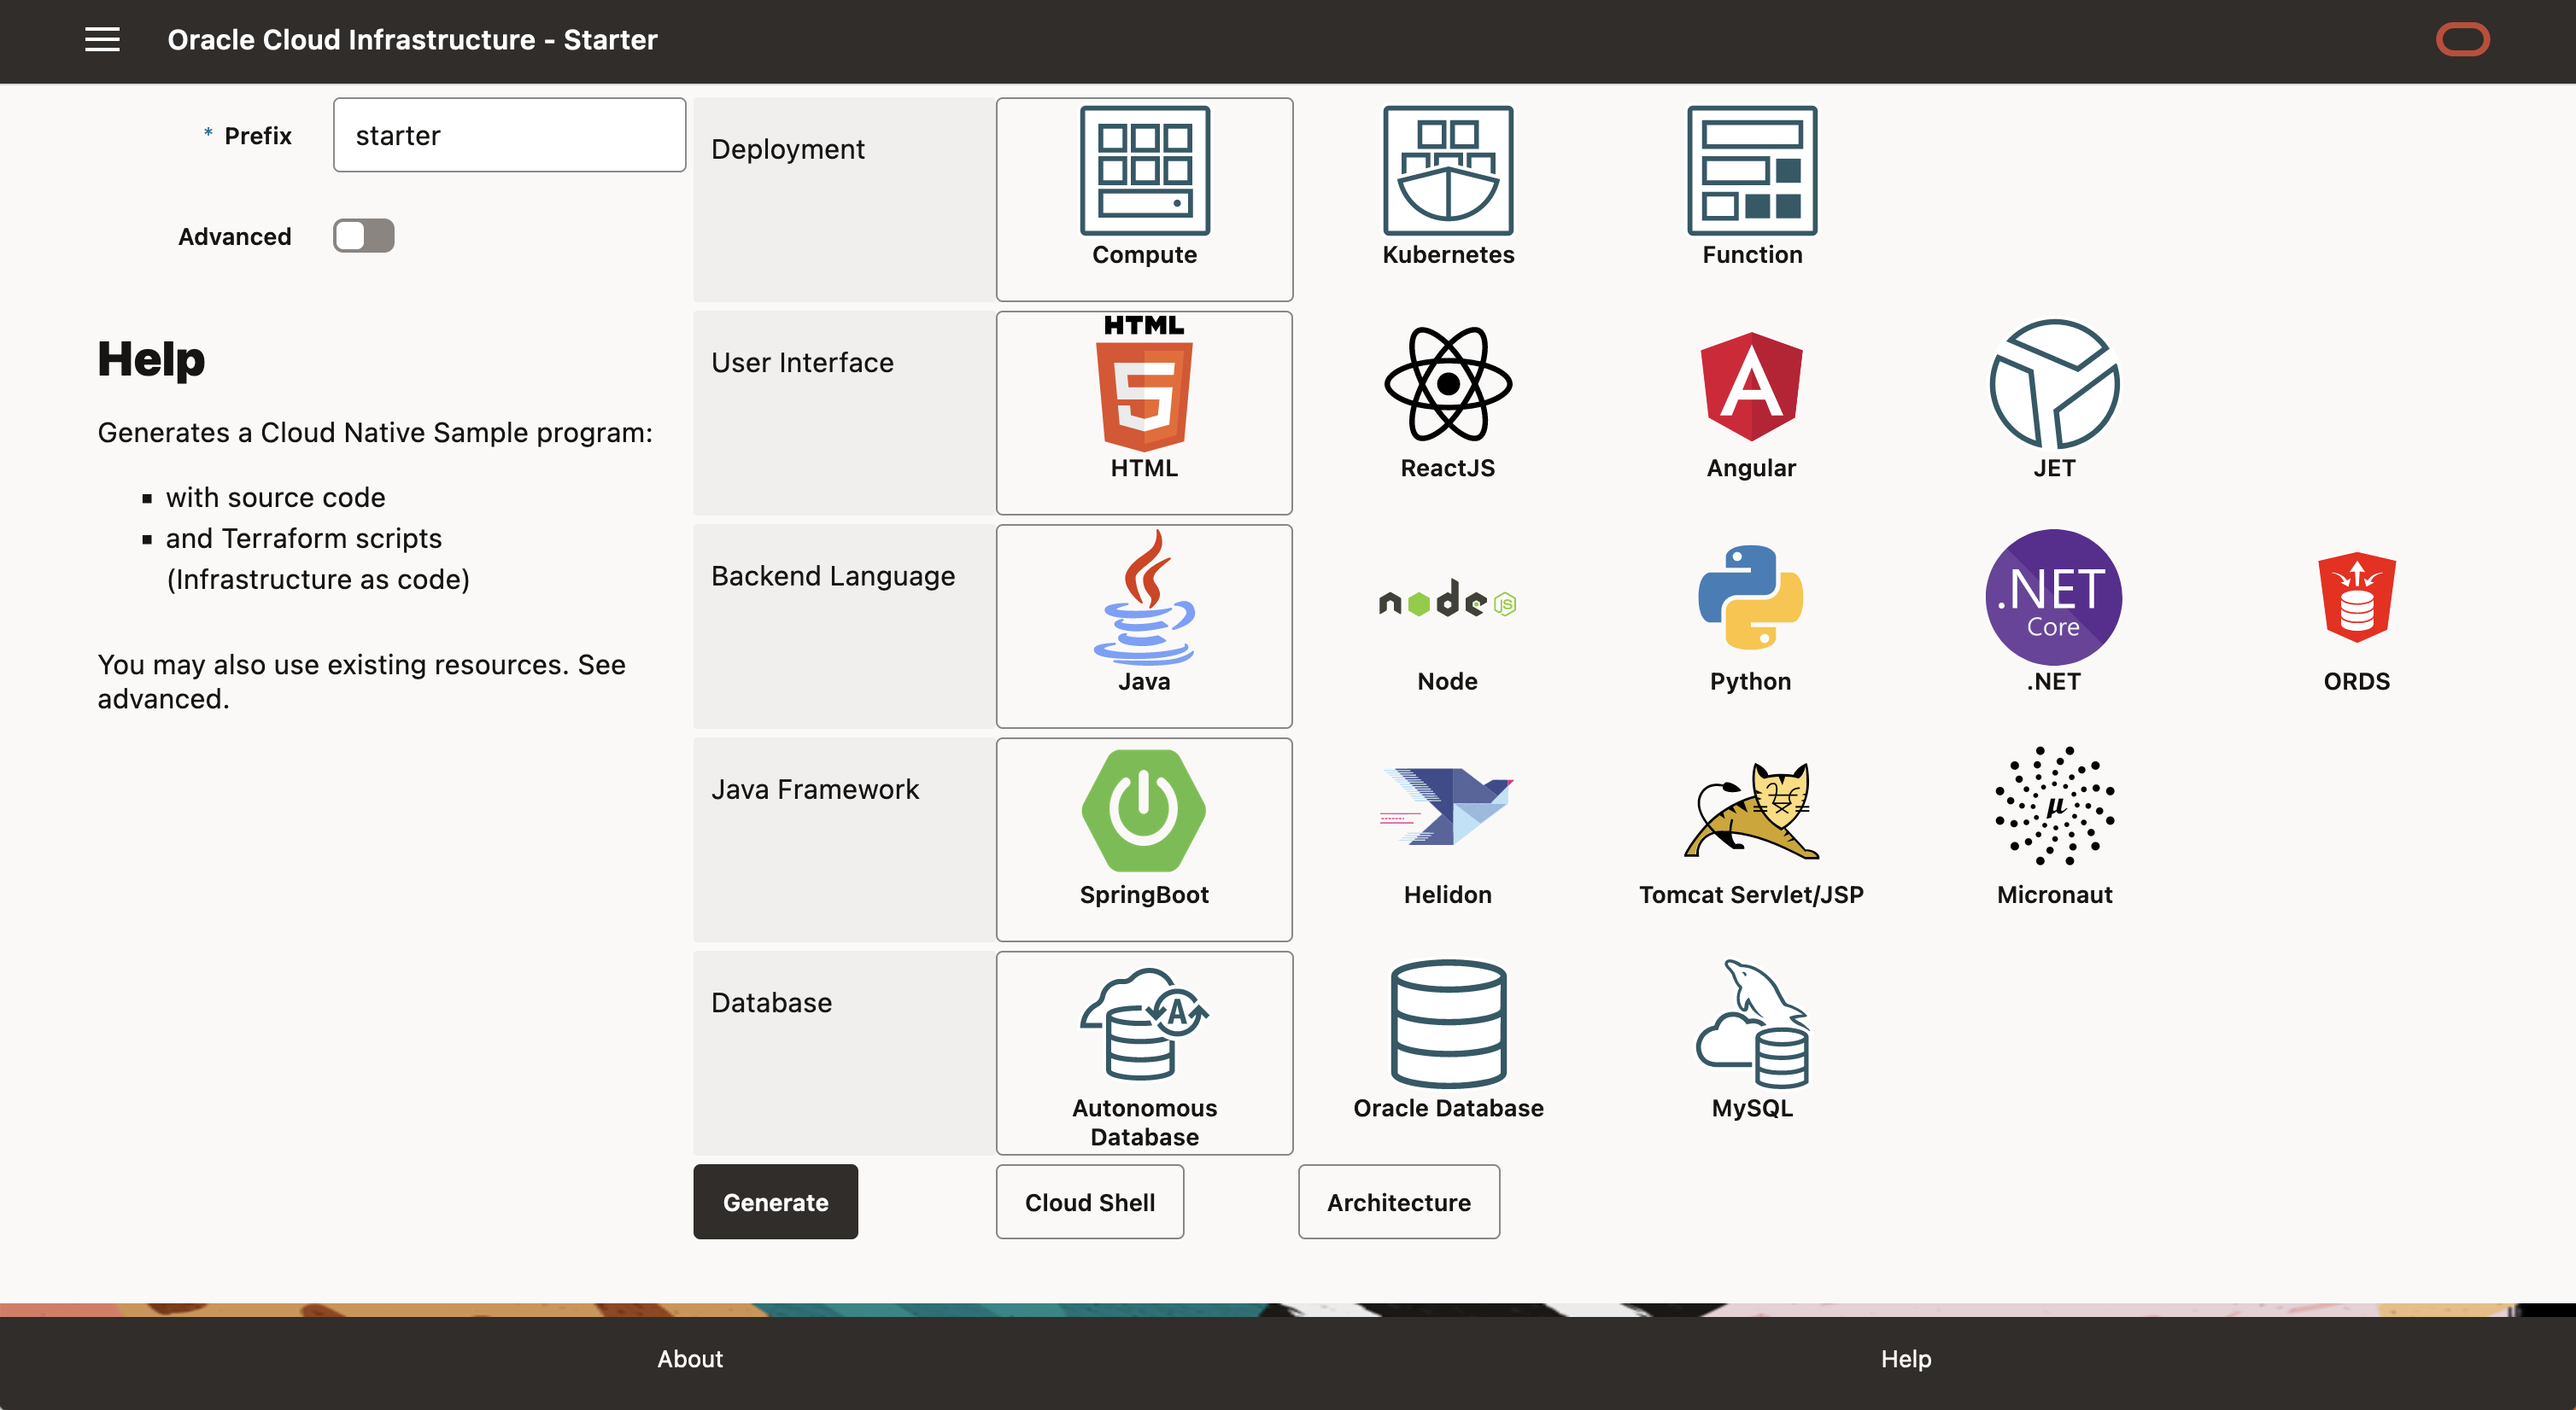
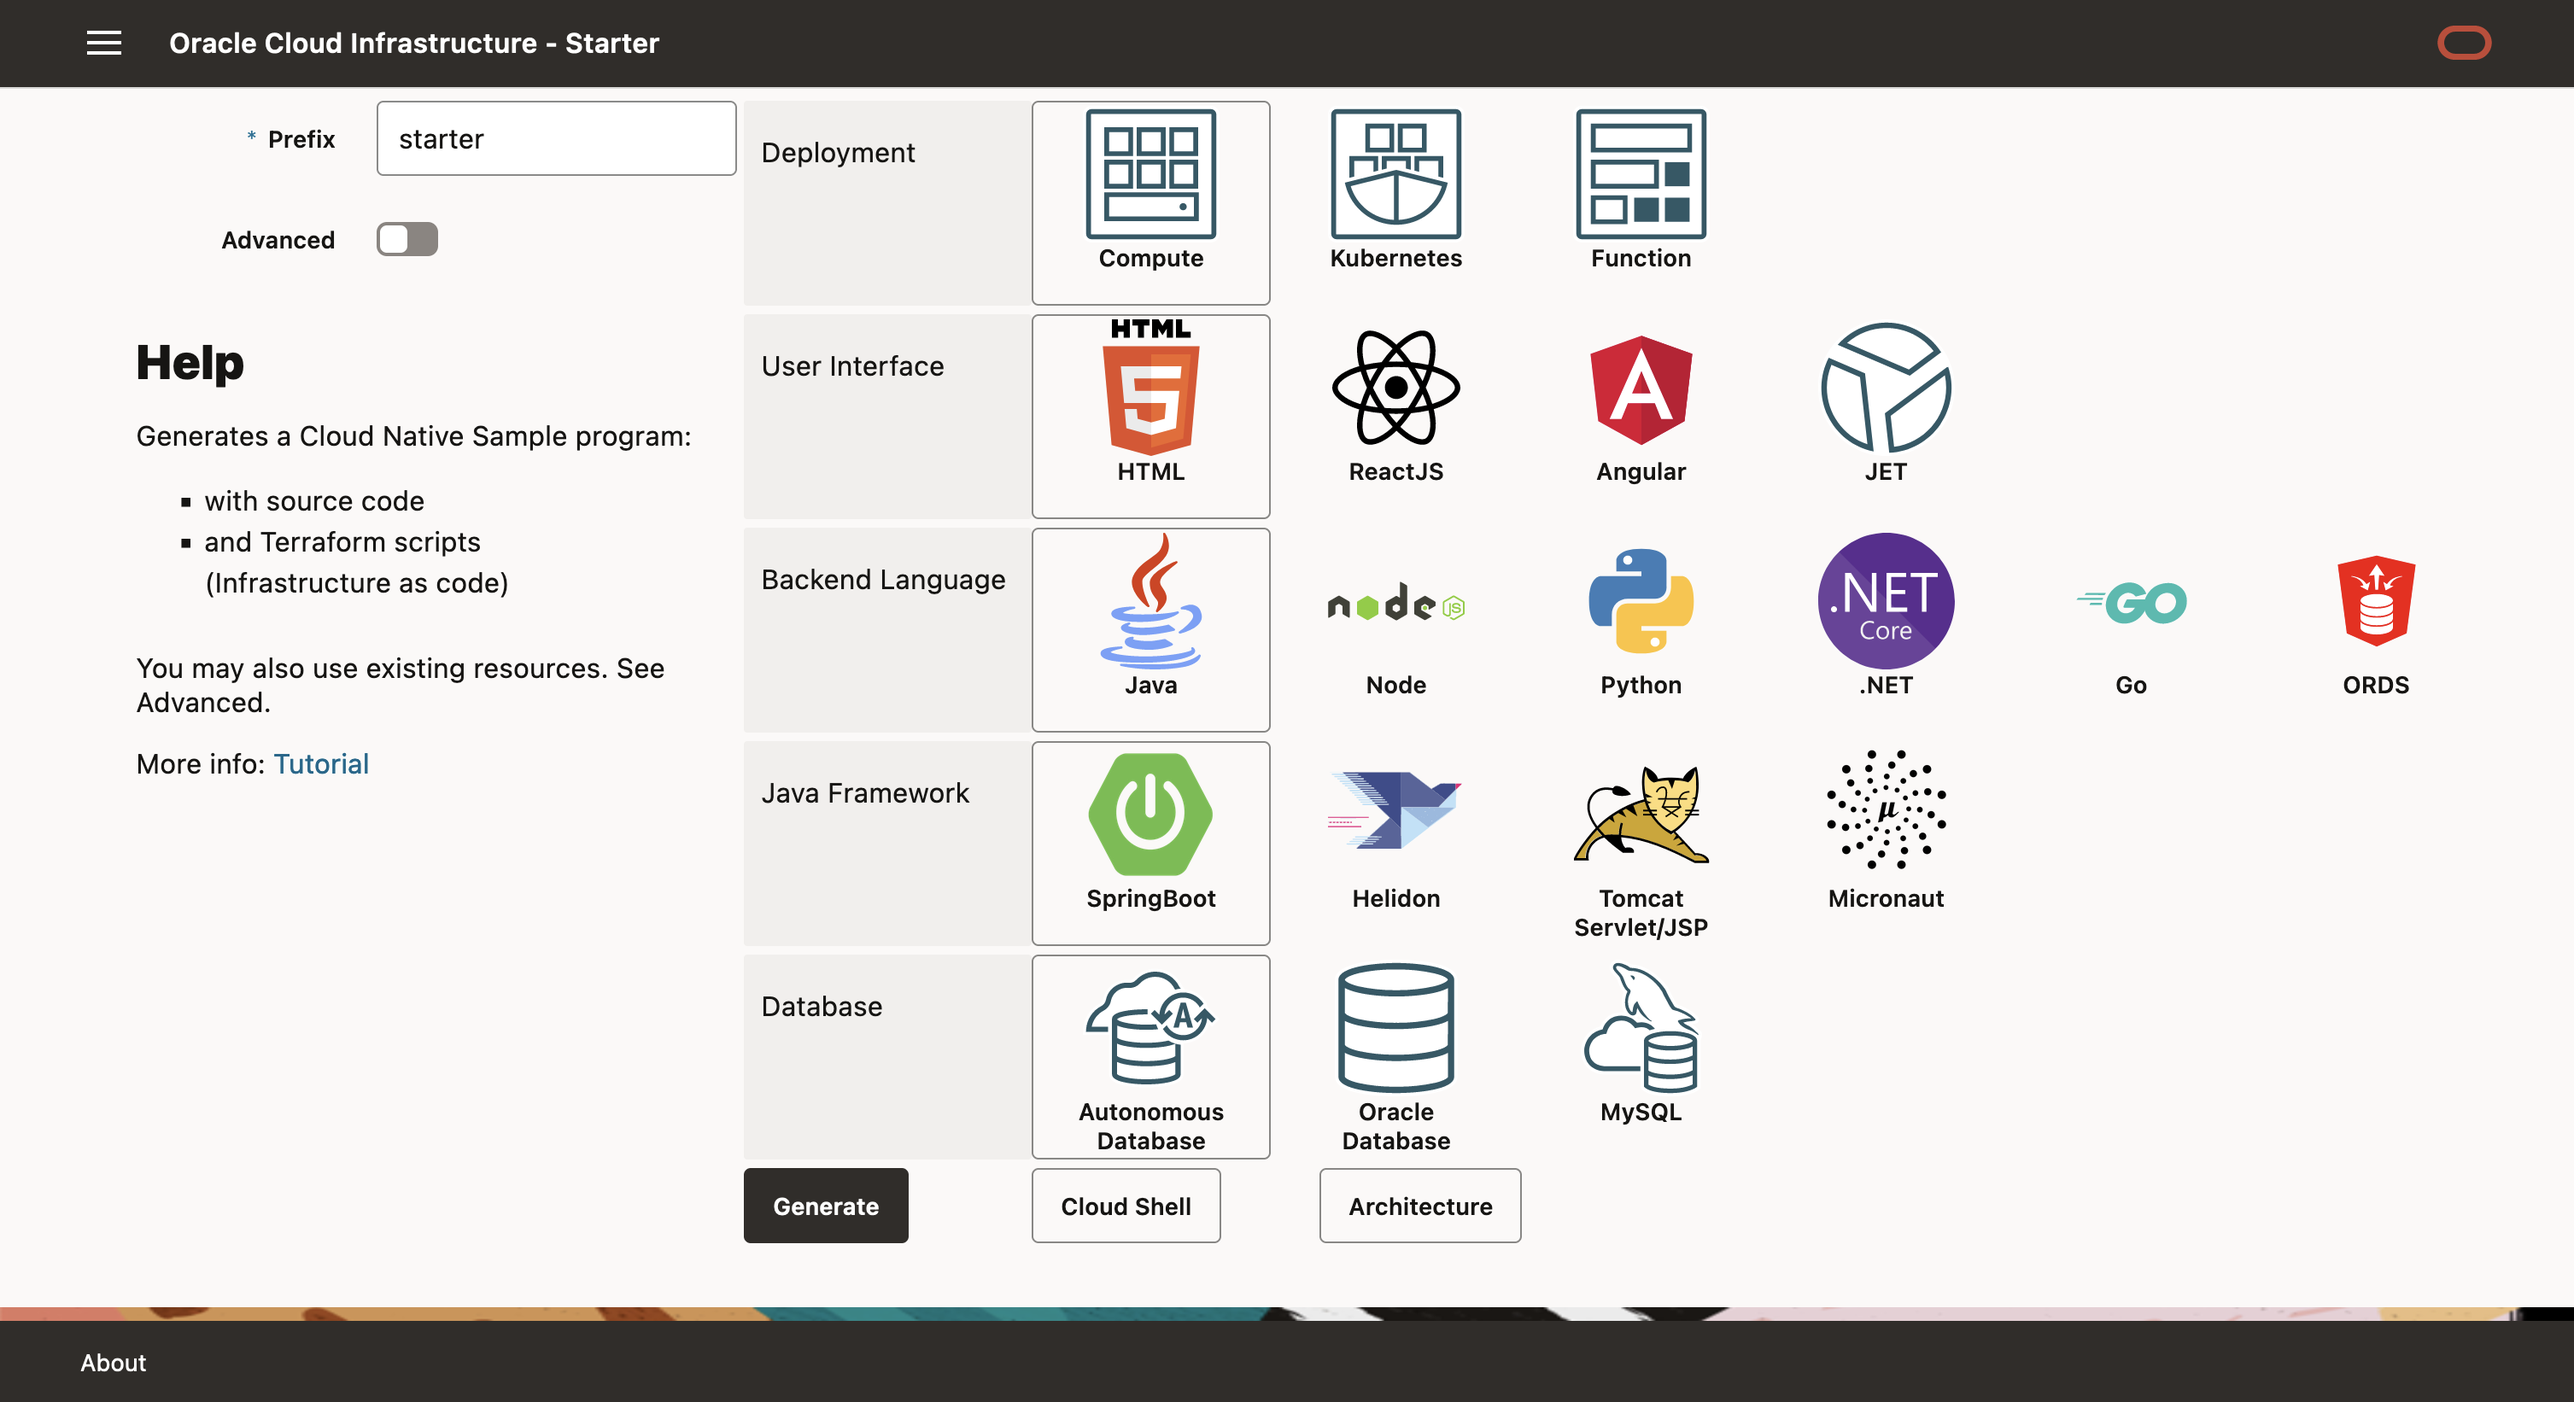
v1

diff --git a/oci-starter/intro/intro.md b/oci-starter/intro/intro.md
@@ -12,7 +12,7 @@ In this tutorial, we will create custom Cloud Native application using:
 - Terraform scripts (or Resource Manager)
 - A Compute or Kubernetes, Serverless (Function)
 - An user interface in HTML or ReactJS, Angular, JET
-- A backend using Java or Node, Python, .NET, ORDS
+- A backend using Java or Node, Python, .NET, Go, ORDS
     - For Java: 
         - Framework: SpringBoot or Helidon, Tomcat, Micronaut
         - VM: JDK or SpringBoot
